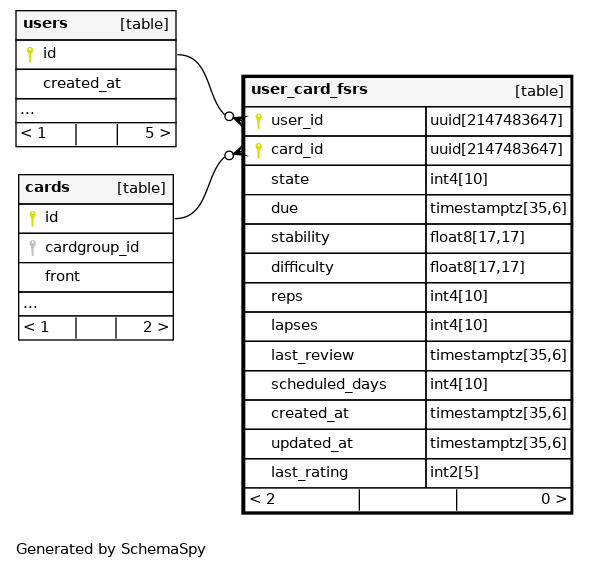
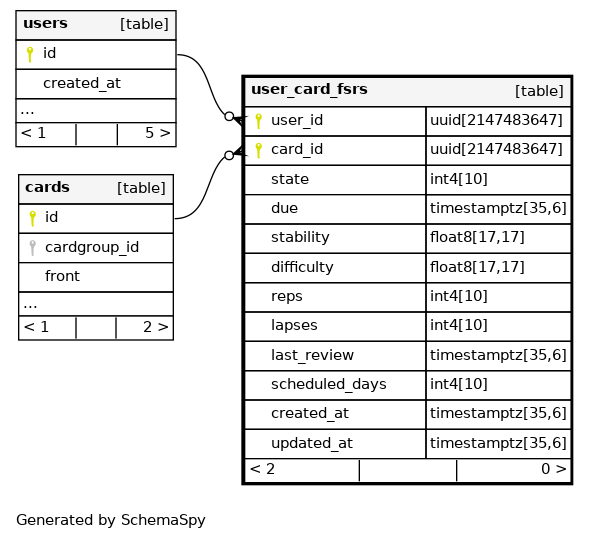
Deploying to gh-pages from @ yasuflatland-lf/flamingo-armond@3c6d11e3d79c269551963b7633691e6f633d28b5 🚀

diff --git a/er-chart/relationships.html b/er-chart/relationships.html
@@ -96,9 +96,9 @@
 <area shape="rect" id="node1" href="tables/master_cardgroups.html" target="_top" title="master_cardgroups" alt="" coords="251,35,523,240">
 <area shape="rect" id="node2" href="tables/cardgroups.html" target="_top" title="cardgroups" alt="" coords="463,533,657,709">
 <area shape="rect" id="node8" href="tables/users.html" target="_top" title="users" alt="" coords="237,563,419,709">
-<area shape="rect" id="node3" href="tables/swipe_records.html" target="_top" title="swipe_records" alt="" coords="1044,605,1267,840">
+<area shape="rect" id="node3" href="tables/roles.html" target="_top" title="roles" alt="" coords="262,792,394,915">
+<area shape="rect" id="node4" href="tables/swipe_records.html" target="_top" title="swipe_records" alt="" coords="1044,605,1267,840">
 <area shape="rect" id="node9" href="tables/cards.html" target="_top" title="cards" alt="" coords="763,533,939,709">
-<area shape="rect" id="node4" href="tables/roles.html" target="_top" title="roles" alt="" coords="262,792,394,915">
 <area shape="rect" id="node5" href="tables/user_card_fsrs.html" target="_top" title="user_card_fsrs" alt="" coords="1044,353,1267,529">
 <area shape="rect" id="node6" href="tables/user_preferences.html" target="_top" title="user_preferences" alt="" coords="701,369,1000,516">
 <area shape="rect" id="node7" href="tables/master_cards.html" target="_top" title="master_cards" alt="" coords="567,5,820,181">
@@ -111,17 +111,17 @@
                                     <div class="chart tab-pane " id="largeDegreeImg-chart" style="position: relative; overflow-x:auto;">
                                         <map id="largeRelationshipsDiagram" name="largeRelationshipsDiagram">
 <area shape="rect" id="node1" href="tables/master_cardgroups.html" target="_top" title="master_cardgroups" alt="" coords="5,35,277,363">
-<area shape="rect" id="node2" href="tables/cardgroups.html" target="_top" title="cardgroups" alt="" coords="463,880,657,1091">
-<area shape="rect" id="node8" href="tables/users.html" target="_top" title="users" alt="" coords="237,909,419,1179">
-<area shape="rect" id="node3" href="tables/swipe_records.html" target="_top" title="swipe_records" alt="" coords="1044,980,1267,1543">
-<area shape="rect" id="node9" href="tables/cards.html" target="_top" title="cards" alt="" coords="763,851,939,1120">
-<area shape="rect" id="node4" href="tables/roles.html" target="_top" title="roles" alt="" coords="262,1203,394,1325">
-<area shape="rect" id="node5" href="tables/user_card_fsrs.html" target="_top" title="user_card_fsrs" alt="" coords="1044,517,1267,963">
-<area shape="rect" id="node6" href="tables/user_preferences.html" target="_top" title="user_preferences" alt="" coords="701,593,1000,833">
+<area shape="rect" id="node2" href="tables/cardgroups.html" target="_top" title="cardgroups" alt="" coords="463,831,657,1041">
+<area shape="rect" id="node8" href="tables/users.html" target="_top" title="users" alt="" coords="237,860,419,1129">
+<area shape="rect" id="node3" href="tables/roles.html" target="_top" title="roles" alt="" coords="262,1153,394,1276">
+<area shape="rect" id="node4" href="tables/swipe_records.html" target="_top" title="swipe_records" alt="" coords="1044,901,1267,1464">
+<area shape="rect" id="node9" href="tables/cards.html" target="_top" title="cards" alt="" coords="763,801,939,1071">
+<area shape="rect" id="node5" href="tables/user_card_fsrs.html" target="_top" title="user_card_fsrs" alt="" coords="1044,468,1267,884">
+<area shape="rect" id="node6" href="tables/user_preferences.html" target="_top" title="user_preferences" alt="" coords="701,544,1000,784">
 <area shape="rect" id="node7" href="tables/master_cards.html" target="_top" title="master_cards" alt="" coords="321,5,575,275">
-<area shape="rect" id="node12" title="auth.users" alt="" coords="5,909,193,1032">
+<area shape="rect" id="node12" title="auth.users" alt="" coords="5,860,193,983">
 <area shape="rect" id="node10" href="tables/ping_records.html" target="_top" title="ping_records" alt="" coords="713,211,923,363">
-<area shape="rect" id="node11" href="tables/user_roles.html" target="_top" title="user_roles" alt="" coords="468,1173,652,1296">
+<area shape="rect" id="node11" href="tables/user_roles.html" target="_top" title="user_roles" alt="" coords="468,1124,652,1247">
 </map>
                                         <a name='diagram'><img id="largeDegreeImg" src="diagrams/summary/relationships.real.large.png" usemap="#largeRelationshipsDiagram" class="diagram" border="0" align="left"></a>
                                     </div>

diff --git a/er-chart/index.html b/er-chart/index.html
@@ -78,7 +78,7 @@
                         <div class="col-md-12">
                             <div class="callout callout-info">
                                 <h4>SchemaSpy Analysis of armond.public</h4>
-                                <p>Generated on Sun Oct 04 13:11 UTC 2026</p>
+                                <p>Generated on Sun Oct 04 13:15 UTC 2026</p>
                             </div>
                         </div>
                     </div>
@@ -118,7 +118,7 @@
                                 <span class="info-box-icon bg-green"><span class="glyphicon glyphicon-list-alt" aria-hidden="true"></span></span>
                                 <div class="info-box-content">
                                     <span class="info-box-text">COLUMNS</span>
-                                    <span class="info-box-number">78</span>
+                                    <span class="info-box-number">77</span>
                                 </div>
                                 <!-- /.info-box-content -->
                             </div>
@@ -224,15 +224,6 @@
                                         <td class="comment detail" style="display: table-cell;"></td>
                                     </tr>
                                     <tr class="tbl even" valign="top">
-                                        <td class="detail"><a href="tables/swipe_records.html">swipe_records</a></td>
-                                        <td class="detail" align="right">0</td>
-                                        <td class="detail" align="right">3</td>
-                                        <td class="detail" align="right">17</td>
-                                        <td class="detail" align="right">-1</td>
-                                        <td class="detail" align="right">Table</td>
-                                        <td class="comment detail" style="display: table-cell;"></td>
-                                    </tr>
-                                    <tr class="tbl even" valign="top">
                                         <td class="detail"><a href="tables/roles.html">roles</a></td>
                                         <td class="detail" align="right">1</td>
                                         <td class="detail" align="right">0</td>
@@ -242,10 +233,19 @@
                                         <td class="comment detail" style="display: table-cell;"></td>
                                     </tr>
                                     <tr class="tbl even" valign="top">
+                                        <td class="detail"><a href="tables/swipe_records.html">swipe_records</a></td>
+                                        <td class="detail" align="right">0</td>
+                                        <td class="detail" align="right">3</td>
+                                        <td class="detail" align="right">17</td>
+                                        <td class="detail" align="right">-1</td>
+                                        <td class="detail" align="right">Table</td>
+                                        <td class="comment detail" style="display: table-cell;"></td>
+                                    </tr>
+                                    <tr class="tbl even" valign="top">
                                         <td class="detail"><a href="tables/user_card_fsrs.html">user_card_fsrs</a></td>
                                         <td class="detail" align="right">0</td>
                                         <td class="detail" align="right">2</td>
-                                        <td class="detail" align="right">13</td>
+                                        <td class="detail" align="right">12</td>
                                         <td class="detail" align="right">-1</td>
                                         <td class="detail" align="right">Table</td>
                                         <td class="comment detail" style="display: table-cell;"></td>

diff --git a/er-chart/tables/user_card_fsrs.html b/er-chart/tables/user_card_fsrs.html
@@ -322,23 +322,6 @@
                                     </td>
                                     <td></td>
                                 </tr>
-                                <tr>
-                                    <td><span id="last_rating">last_rating</span></td>
-                                    <td>int2</td>
-                                    <td>5</td>
-                                    <td title='nullable'>√</td>
-                                    <td title=''></td>
-                                    <td>null</td>
-                                    <td>
-                                        <table border='0' cellspacing='0' cellpadding='0'>
-                                        </table>
-                                    </td>
-                                    <td>
-                                        <table border='0' cellspacing='0' cellpadding='0'>
-                                        </table>
-                                    </td>
-                                    <td><p>FSRS rating (1=Again, 2=Hard, 3=Good, 4=Easy) of the swipe that produced this row&rsquo;s state. NULL only when the backfill found no swipe history.</p></td>
-                                </tr>
                                 </tbody>
                             </table>
                         </div>
@@ -410,7 +393,7 @@
                                 <div class="tab-content no-padding">
                                     <div class="chart tab-pane active" id="oneDegreeImg-chart" style="position: relative; overflow-x:auto;">
                                         <map id="oneDegreeRelationshipsDiagram" name="oneDegreeRelationshipsDiagram">
-<area shape="rect" id="node1" href="user_card_fsrs.html" target="_top" title="user_card_fsrs" alt="" coords="231,69,584,520">
+<area shape="rect" id="node1" href="user_card_fsrs.html" target="_top" title="user_card_fsrs" alt="" coords="231,69,584,491">
 <area shape="rect" id="node2" href="cards.html" target="_top" title="cards" alt="" coords="8,169,184,345">
 <area shape="rect" id="node3" href="users.html" target="_top" title="users" alt="" coords="5,5,187,152">
 </map>
@@ -423,7 +406,7 @@
 <area shape="rect" id="node8" title="auth.users" alt="" coords="5,272,193,360">
 <area shape="rect" id="node3" href="cards.html" target="_top" title="cards" alt="" coords="739,79,915,255">
 <area shape="rect" id="node4" href="swipe_records.html" target="_top" title="swipe_records" alt="" coords="1063,5,1285,93">
-<area shape="rect" id="node5" href="user_card_fsrs.html" target="_top" title="user_card_fsrs" alt="" coords="997,223,1351,673">
+<area shape="rect" id="node5" href="user_card_fsrs.html" target="_top" title="user_card_fsrs" alt="" coords="997,223,1351,644">
 <area shape="rect" id="node6" href="user_preferences.html" target="_top" title="user_preferences" alt="" coords="701,272,953,360">
 <area shape="rect" id="node7" href="user_roles.html" target="_top" title="user_roles" alt="" coords="468,413,652,501">
 </map>

diff --git a/er-chart/tables/user_preferences.html b/er-chart/tables/user_preferences.html
@@ -291,12 +291,12 @@
                                 </thead>
                                 <tbody>
                                 <tr>
-                                    <td>user_preferences_learn_display_mode_check</td>
-                                    <td>(learn_display_mode &#61; ANY (ARRAY[&#39;flip_to_reveal&#39;::text, &#39;always_visible&#39;::text]))</td>
-                                </tr>
-                                <tr>
                                     <td>user_preferences_new_card_ratio_check</td>
                                     <td>((new_card_ratio_num &gt;&#61; 1) AND (new_card_ratio_num &lt; new_card_ratio_den) AND (new_card_ratio_den &lt;&#61; 20) AND ((20 % new_card_ratio_den) &#61; 0) AND ((new_card_ratio_num * 5) &lt;&#61; (new_card_ratio_den * 4)))</td>
+                                </tr>
+                                <tr>
+                                    <td>user_preferences_learn_display_mode_check</td>
+                                    <td>(learn_display_mode &#61; ANY (ARRAY[&#39;flip_to_reveal&#39;::text, &#39;always_visible&#39;::text]))</td>
                                 </tr>
                                 </tbody>
                             </table>

diff --git a/er-chart/tables/master_cards.html b/er-chart/tables/master_cards.html
@@ -309,12 +309,12 @@
                                 </thead>
                                 <tbody>
                                 <tr>
-                                    <td>master_cards_front_length</td>
-                                    <td>((char_length(TRIM(BOTH FROM front)) &gt;&#61; 1) AND (char_length(TRIM(BOTH FROM front)) &lt;&#61; 10000))</td>
-                                </tr>
-                                <tr>
                                     <td>master_cards_back_length</td>
                                     <td>((char_length(TRIM(BOTH FROM back)) &gt;&#61; 1) AND (char_length(TRIM(BOTH FROM back)) &lt;&#61; 10000))</td>
+                                </tr>
+                                <tr>
+                                    <td>master_cards_front_length</td>
+                                    <td>((char_length(TRIM(BOTH FROM front)) &gt;&#61; 1) AND (char_length(TRIM(BOTH FROM front)) &lt;&#61; 10000))</td>
                                 </tr>
                                 </tbody>
                             </table>

diff --git a/er-chart/tables/cards.html b/er-chart/tables/cards.html
@@ -319,12 +319,12 @@
                                 </thead>
                                 <tbody>
                                 <tr>
-                                    <td>cards_front_length</td>
-                                    <td>((char_length(TRIM(BOTH FROM front)) &gt;&#61; 1) AND (char_length(TRIM(BOTH FROM front)) &lt;&#61; 10000))</td>
-                                </tr>
-                                <tr>
                                     <td>cards_back_length</td>
                                     <td>((char_length(TRIM(BOTH FROM back)) &gt;&#61; 1) AND (char_length(TRIM(BOTH FROM back)) &lt;&#61; 10000))</td>
+                                </tr>
+                                <tr>
+                                    <td>cards_front_length</td>
+                                    <td>((char_length(TRIM(BOTH FROM front)) &gt;&#61; 1) AND (char_length(TRIM(BOTH FROM front)) &lt;&#61; 10000))</td>
                                 </tr>
                                 </tbody>
                             </table>

diff --git a/er-chart/columns.html b/er-chart/columns.html
@@ -979,20 +979,6 @@
         "comments": ""
     },
     {
-        "tableName": "user_card_fsrs",
-        "tableFileName": "user_card_fsrs",
-        "tableType": "Table",
-        "keyClass": "",
-        "keyTitle": "",
-        "name": "last_rating",
-        "type": "int2",
-        "length": 5,
-        "nullable": "√",
-        "autoUpdated": "",
-        "defaultValue": "null",
-        "comments": "<p>FSRS rating (1=Again, 2=Hard, 3=Good, 4=Easy) of the swipe that produced this row&rsquo;s state. NULL only when the backfill found no swipe history.</p>"
-    },
-    {
         "tableName": "user_preferences",
         "tableFileName": "user_preferences",
         "tableType": "Table",
